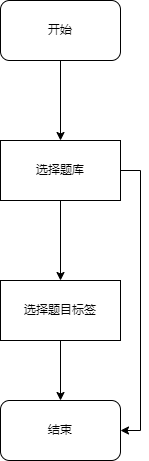
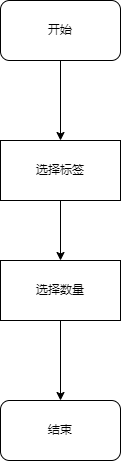
fix Self generating test paper exercise

diff --git a/Requirement_official.md b/Requirement_official.md
@@ -11,7 +11,7 @@
 | 22.03.14 | v0.2    |  刘硕      |  编写功能性需求-用户信息管理功能             |
 | 22.03.20 | v0.3 | 黄辰麟 | 编写用户端界面需求                                   |
 | 22.03.20 | v0.4 | 张瑞轩 | 编写界面需求外非功能性需求 |
-|  |  |  |  |
+| 22.0.21 | v0.5 | 刘昀鑫 | 编写功能性需求-自主组卷联系功能，删除了所有功能性需求中下属的界面条目，增加了LOGO图片 |
 
 ## 2 前言
 
@@ -184,10 +184,6 @@ note left of tk: 比赛创建及参与功能
 | 修改个人信息模块       | 信息修改成功，信息修改失败 |
 | 个人信息展示模块       | 个人信息 |
 
-##### 4.1.3.6 用户界面
-
-略（在非功能需求部分详述）
-
 ##### 约束
 
 超级管理员具有超级权限，可以重置密码，修改全部用户及管理员信息，但是不能查看涉及隐私内容，例如密码。
@@ -280,10 +276,6 @@ note left of tk: 比赛创建及参与功能
 | 题目编辑模块 | 编辑成功、编辑失败     |
 | 题目删除模块 | 删除成功、删除失败     |
 
-##### 4.2.3.6 用户界面
-
-略
-
 ### 4.3 自主组卷练习功能
 
 #### 4.3.1 业务流程
@@ -315,7 +307,7 @@ note left of tk: 比赛创建及参与功能
 本模块为用户自主组卷模块，用来自主组卷练习，主要包含以下几个业务：
 
 **1） 选择题库随机组卷功能：**
-由用户选择题库、标签（可选）与数量，后由系统随机抽题组卷。
+由用户选择标签与数量，后由系统随机抽题组卷。
 
 ##### 4.3.3.2 使用角色描述
 
@@ -331,17 +323,13 @@ note left of tk: 比赛创建及参与功能
 
 | 功能子模块   | 数据名称   | 格式                               |
 | ------------ | ---------- | ---------------------------------- |
-| 用户选择模块 | 题库、标签 | 图形化界面选择后转为内部形式化数据 |
+| 用户选择模块 | 标签，数量 | 图形化界面选择后转为内部形式化数据 |
 
 ##### 4.3.3.5 输出
 
 | 功能子模块   | 输出内容           |
 | ------------ | ------------------ |
 | 用户选择模块 | 组卷成功，组卷失败 |
-
-##### 4.1.3.6 用户界面
-
-略
 
 ### 4.4 比赛功能
 
